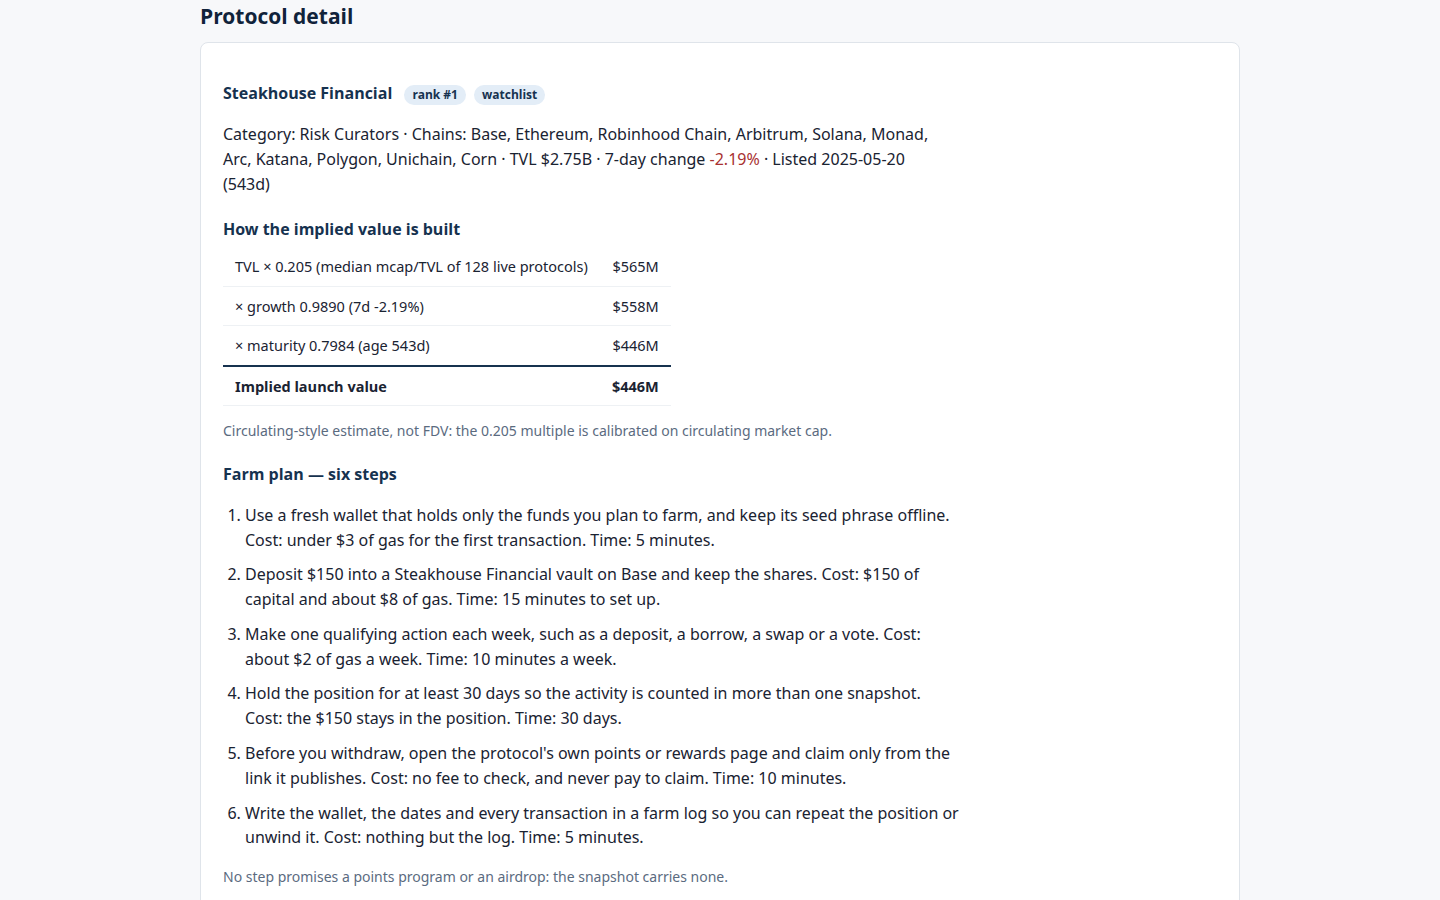
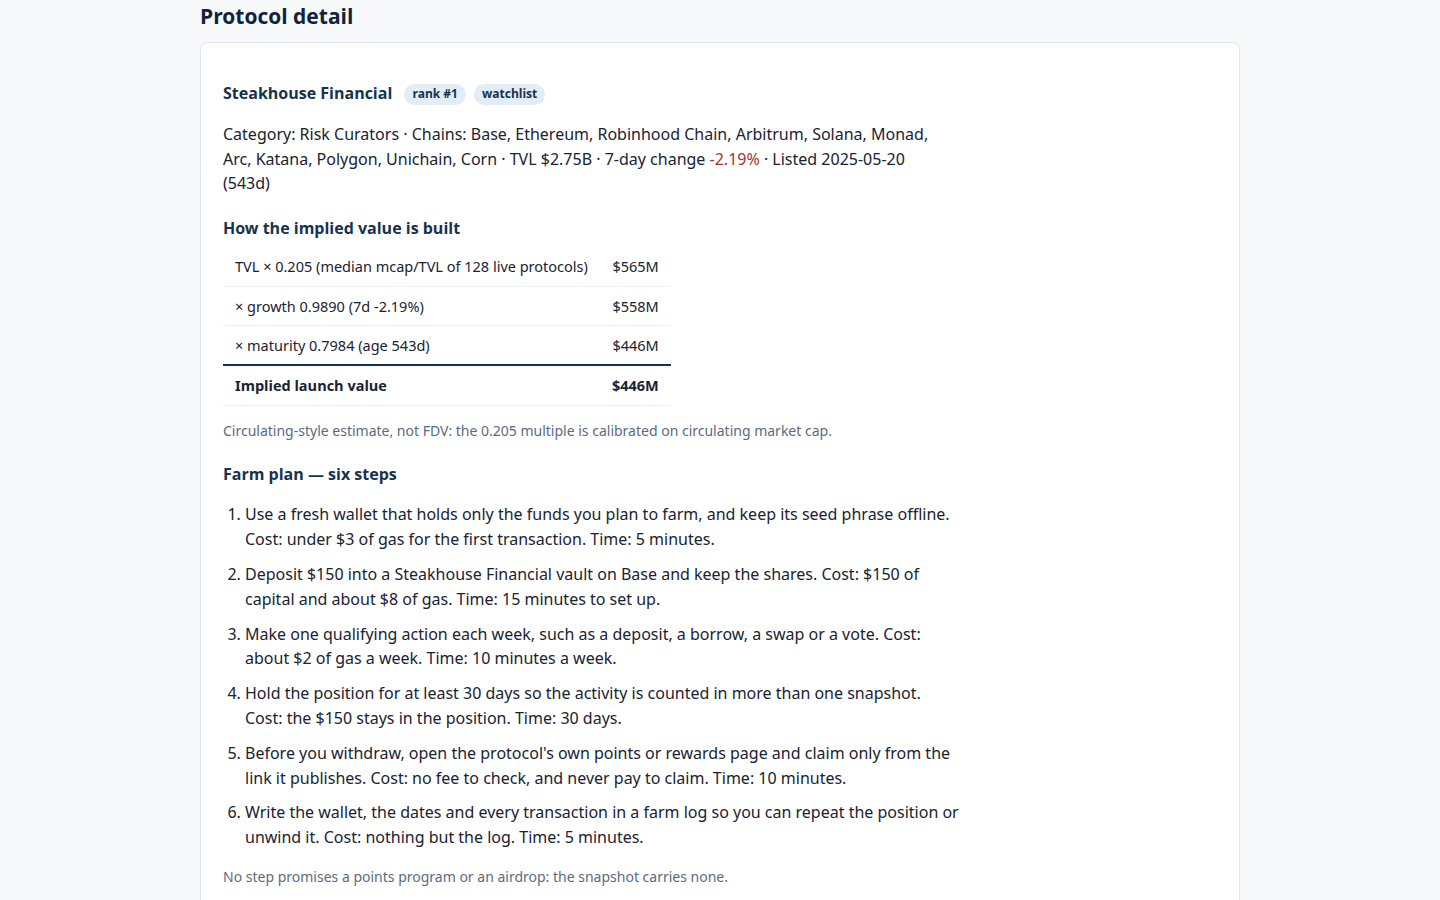
Token Radar pivot P4: facts strip + board first + board.png reframed (criteria 4/5)
- Board section moves above the model section (same layout as the house
  starter: hero, facts, controls, board in one frame); model + farm-plan
  sections stay intact below, still fully in the dossier text.
- Facts strip under the header, rendered from the data: watchlist 40/40,
  183 rows ranked, 143 early below the floor, 24 live tokens set aside.
- shots.mjs: board.png now taken from the top of the page; verified by eye
  (hero + lede + facts + controls + rows 1-4 in one 1440x900 frame).
- detail.png / filtered.png re-shot (unchanged framing, new layout).

diff --git a/dashboard/index.html b/dashboard/index.html
@@ -15,9 +15,41 @@
   token launch would imply, from the snapshot's own figures. It does not predict
   whether or when a token launches.</p>
   <p id="counts" class="counts">Loading&hellip;</p>
+  <div id="facts" class="facts" aria-label="Coverage facts"></div>
 </header>
 
 <main>
+  <section id="board-wrap" aria-labelledby="board-h">
+    <h2 id="board-h">The board</h2>
+    <div class="controls">
+      <label>Search <input id="q" type="search" placeholder="name or slug" autocomplete="off"></label>
+      <label>Category
+        <select id="cat"><option value="">All categories</option></select>
+      </label>
+      <label>Sort by
+        <select id="sort">
+          <option value="rank">Rank (implied value)</option>
+          <option value="tvl">TVL</option>
+          <option value="change">7-day change</option>
+          <option value="age">Age</option>
+        </select>
+      </label>
+      <label class="check"><input id="watch-only" type="checkbox"> Watchlist only</label>
+    </div>
+    <p id="board-meta" class="meta"></p>
+    <div class="table-wrap">
+      <table id="board">
+        <thead><tr>
+          <th>#</th><th>Protocol</th><th>Category</th><th>Chains</th>
+          <th class="num">TVL</th><th class="num">7d</th><th class="num">Age</th>
+          <th class="num">Implied value</th>
+        </tr></thead>
+        <tbody></tbody>
+      </table>
+    </div>
+    <p class="hint">Select a row to see the factor breakdown and the farm plan.</p>
+  </section>
+
   <section id="model" aria-labelledby="model-h">
     <h2 id="model-h">How the implied value is built</h2>
     <p>Every row is scored by the same formula, from the snapshot's own figures only.
@@ -127,37 +159,6 @@ maturityMult = 0.6 + min(age_days, 1095) / 1095 &times; 0.4   (age unknown: 365 
       <tr><td>CeDeFi</td><td>Deposit $C into NAME on CHAIN and keep the position open.</td></tr>
       <tr><td>Anything else</td><td>Deposit $C of USDC into NAME on CHAIN and keep the position open.</td></tr>
     </tbody></table>
-  </section>
-
-  <section id="board-wrap" aria-labelledby="board-h">
-    <h2 id="board-h">The board</h2>
-    <div class="controls">
-      <label>Search <input id="q" type="search" placeholder="name or slug" autocomplete="off"></label>
-      <label>Category
-        <select id="cat"><option value="">All categories</option></select>
-      </label>
-      <label>Sort by
-        <select id="sort">
-          <option value="rank">Rank (implied value)</option>
-          <option value="tvl">TVL</option>
-          <option value="change">7-day change</option>
-          <option value="age">Age</option>
-        </select>
-      </label>
-      <label class="check"><input id="watch-only" type="checkbox"> Watchlist only</label>
-    </div>
-    <p id="board-meta" class="meta"></p>
-    <div class="table-wrap">
-      <table id="board">
-        <thead><tr>
-          <th>#</th><th>Protocol</th><th>Category</th><th>Chains</th>
-          <th class="num">TVL</th><th class="num">7d</th><th class="num">Age</th>
-          <th class="num">Implied value</th>
-        </tr></thead>
-        <tbody></tbody>
-      </table>
-    </div>
-    <p class="hint">Select a row to see the factor breakdown and the farm plan.</p>
   </section>
 
   <section id="detail" aria-labelledby="detail-h" hidden>

diff --git a/dashboard/app.js b/dashboard/app.js
@@ -40,6 +40,17 @@
   // The board marks watchlist rows from the explicit slug list in the data.
   if (R.watchlist_slugs) R.watchlist_slugs.forEach(function (s) { watchlist.add(s); });
 
+  // ---- facts strip (rendered from the data, above the board) ----
+  (function () {
+    var covered = 0;
+    R.rows.forEach(function (r) { if (watchlist.has(r.slug)) covered++; });
+    $('facts').innerHTML =
+      '<div class="fact"><strong>' + covered + ' / ' + R.watchlist_size + '</strong><span>watchlist covered</span></div>' +
+      '<div class="fact"><strong>' + R.board_size + '</strong><span>rows ranked</span></div>' +
+      '<div class="fact"><strong>' + R.early_size + '</strong><span>early, below the $50M floor</span></div>' +
+      '<div class="fact"><strong>' + R.live_size + '</strong><span>live tokens set aside</span></div>';
+  })();
+
   // ---- board ----
   var cats = [];
   R.rows.forEach(function (r) { if (r.category && cats.indexOf(r.category) < 0) cats.push(r.category); });

diff --git a/dashboard/app.css b/dashboard/app.css
@@ -14,6 +14,10 @@ h2 { font-size: 21px; margin: 34px 0 10px; color: #10233a; }
 h3 { font-size: 16px; margin: 18px 0 6px; color: #16324f; }
 .lede { font-size: 17px; max-width: 72ch; }
 .counts { font-weight: 600; color: #16324f; }
+.facts { display: flex; flex-wrap: wrap; gap: 12px; margin: 14px 0 4px; }
+.fact { background: #fff; border: 1px solid #dfe4ea; border-radius: 8px; padding: 10px 16px; min-width: 150px; }
+.fact strong { display: block; font-size: 20px; color: #10233a; font-variant-numeric: tabular-nums; }
+.fact span { font-size: 13px; color: #5b6b7f; }
 section { margin-top: 8px; }
 p, li { max-width: 78ch; }
 .formula {
